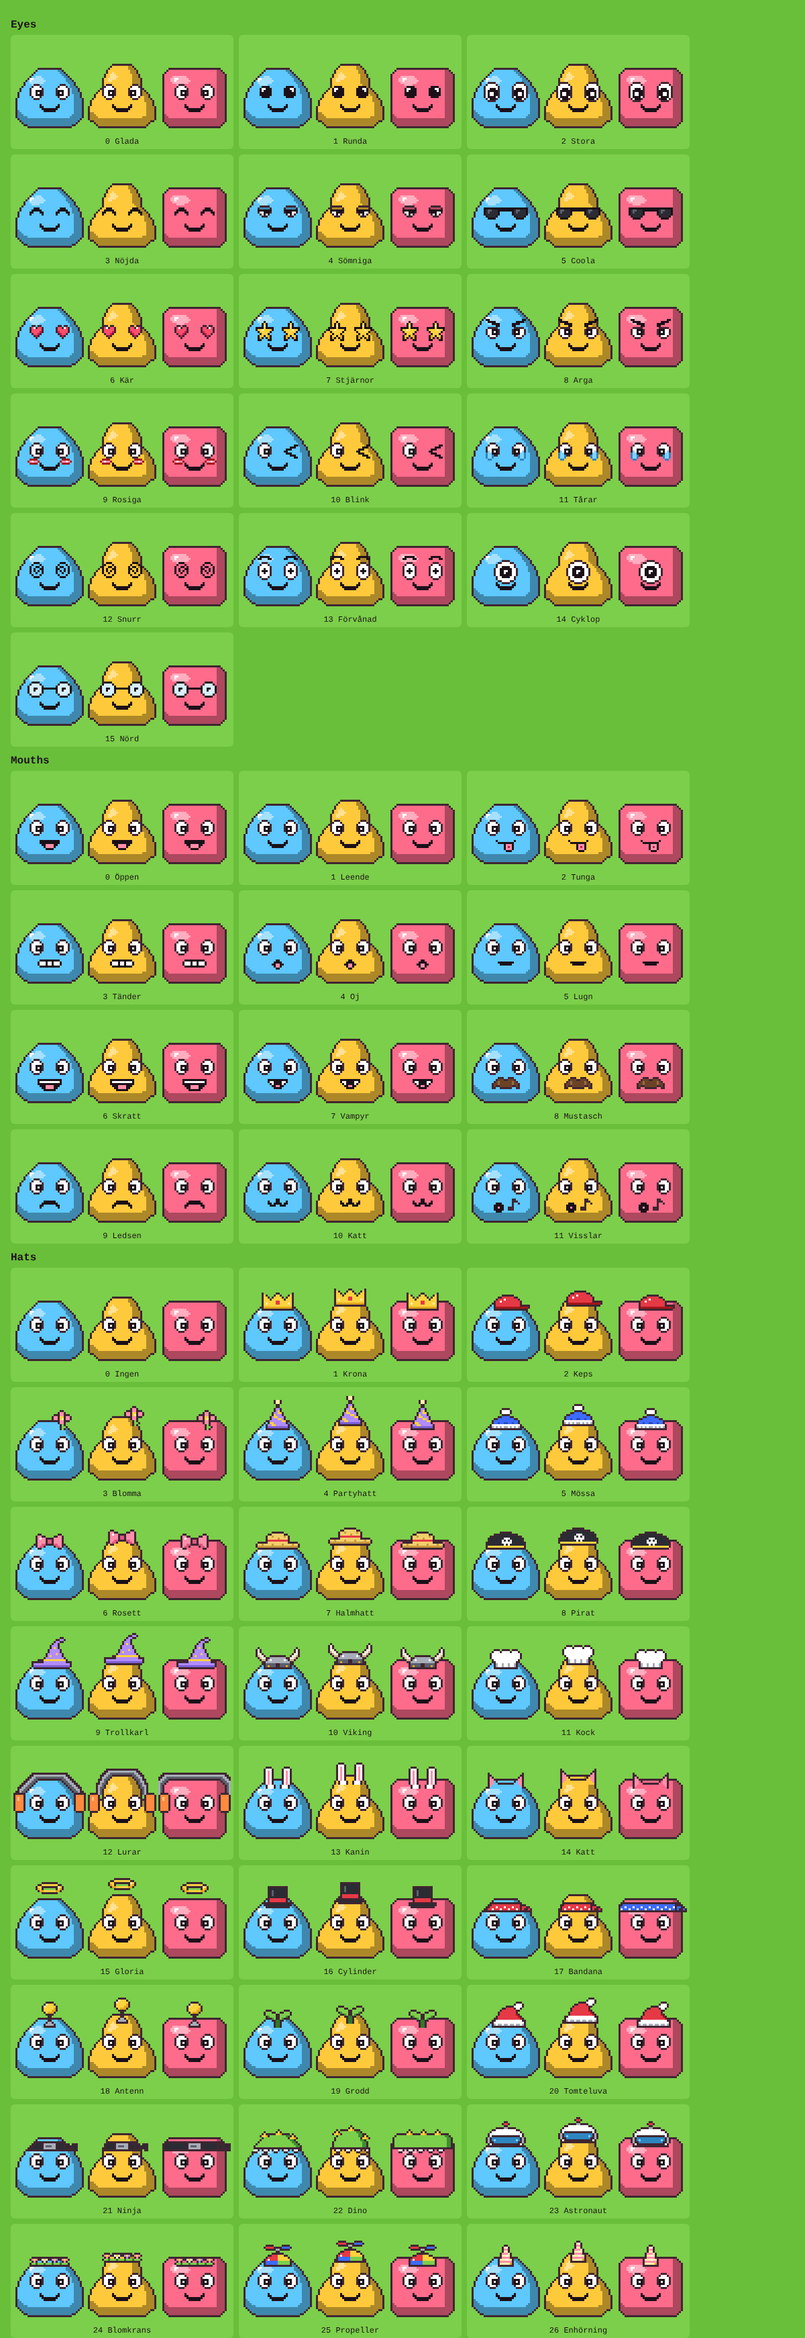
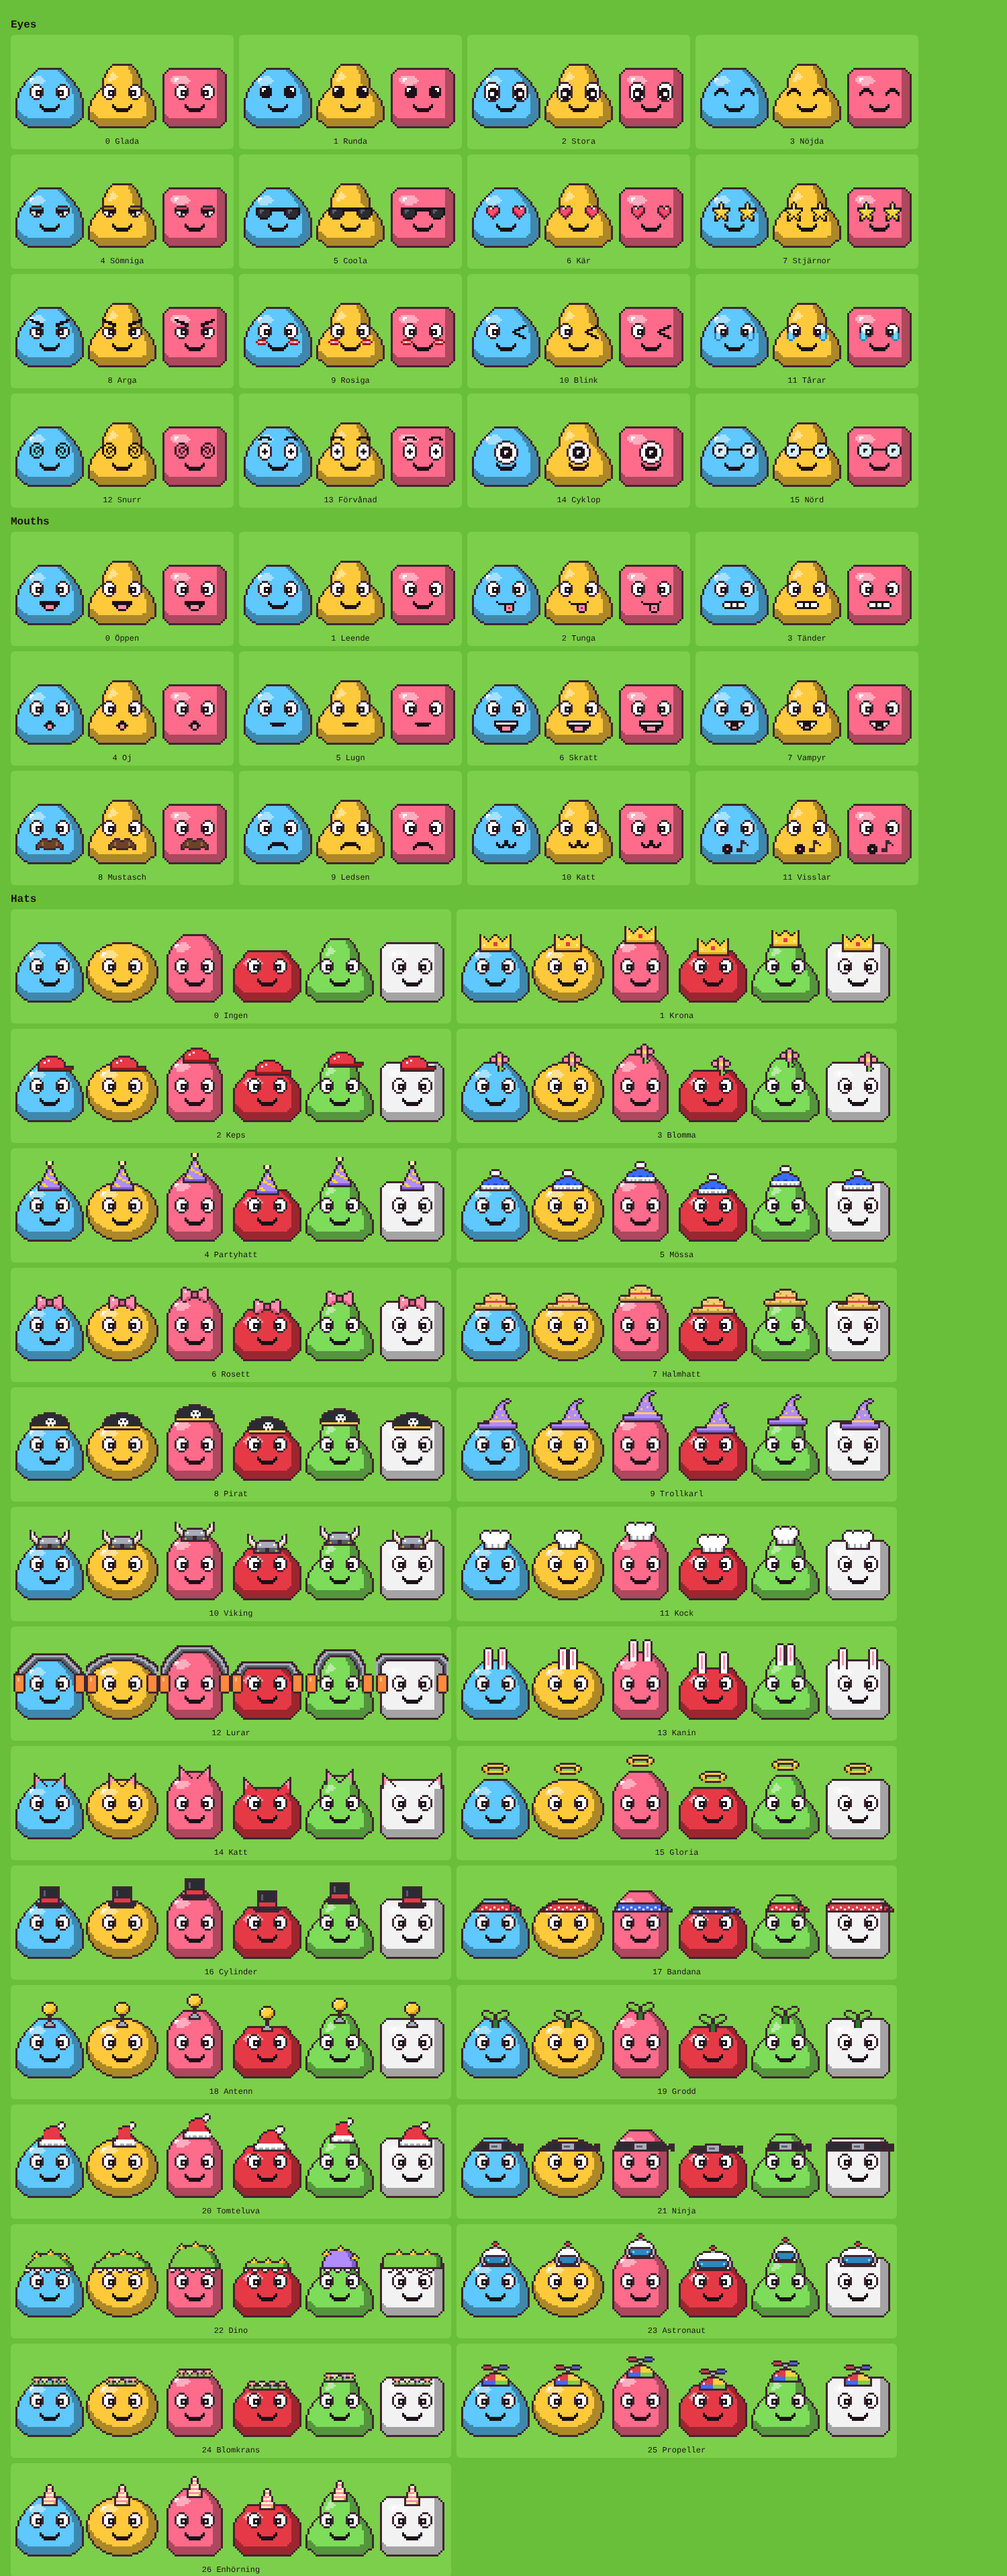
feat(blobz): hats fit every body shape
Per-shape head profile (silhouette extents per row). Wide hats are squeezed
in whole pixel columns (from the longest run of identical columns) until
they stay within 2 px of the head; brims are exempt. Ears and horns are
mirrored pieces placed from the head-top edges (cat, bunny) or against the
helmet (viking); the side flower anchors to the head top. New test fails if
a hat pixel sits more than 2 px outside the head outline on any shape
(intentional brims, cups, knot tails, horns and the dino hood whitelisted).
Parts sheet now shows every hat on all 6 shapes.

Claude-Session: https://claude.ai/code/session_019PjhQv7Xfjv9fRCZgvquZ1

diff --git a/blobz/src/blob.ts b/blobz/src/blob.ts
@@ -97,15 +97,24 @@ const MOUTH_PARTS: MouthPart[] = [
 
 // Hats: centred on x = 18 (+ dx); bottom row on fine row min(top + 2, 11) * S - 1 (+ drop).
 // `float`: hovers above the real head top (halo). `proc`: drawn procedurally to hug the body shape.
-interface HatPart { rows: string[]; dx?: number; float?: boolean; proc?: 'phones' | 'bandana' | 'ninja' | 'dino' }
+// Fitting: hats are squeezed (whole pixel columns) until they stay within ~2 px of the head outline
+// (see fitHat). `brim`: an intentional brim may overhang (straw hat, pirate, wizard, cap).
+// `pair`: a left piece (ear, horn) mirrored to the right, its outer column at fraction `at` of the
+// head-top width (minus 2 px overhang), or, without `at`, against the hat's own sides; `dy` moves it up (-) or down.
+// `anchor`: a narrow side piece centred at this fraction of the head-top width (flower).
+interface HatPart {
+  rows: string[]; dx?: number; float?: boolean; brim?: boolean; anchor?: number;
+  pair?: { rows: string[]; at?: number; dy?: number };
+  proc?: 'phones' | 'bandana' | 'ninja' | 'dino';
+}
 const HAT_PARTS: HatPart[] = [
   { rows: [] }, // Ingen
   { rows: ['U......UU......U', 'UYU...UYYU...UYU', 'UYYU.UYYYYU.UYYU', 'UYYYUYYYYYYUYYYU', 'UYYYYYYeeYYYYYYU',
     'UYoYYYYeeYYYYoYU', 'UYYYYYYYYYYYYYYU', 'UyyyyyyyyyyyyyyU', 'UUUUUUUUUUUUUUUU'] }, // Krona
-  { dx: 2, rows: [ // Keps
+  { dx: 2, brim: true, rows: [ // Keps
     '......UUUUUU........', '....UUeeeeeeUU......', '...UeeeWeeeeeeU.....', '..UeeWeeeeeeeeeU....',
     '..UeeeeeeeeeeeeU....', '..UeeeeeeeeeeeeUUUUU', '..UccccccccccccccccU', '..UUUUUUUUUUUUUUUUU.'] },
-  { dx: 6, rows: [ // Blomma
+  { anchor: 0.7, rows: [ // Blomma
     '....UU....', '...UNNU...', '.UUUNNUUU.', 'UNNUYYUNNU', 'UNNUYoUNNU', '.UUUNNUUU.', '...UNNU...',
     '....ULU...', '....ULLU..', '....ULU...'] },
   { rows: [ // Partyhatt
@@ -117,31 +126,29 @@ const HAT_PARTS: HatPart[] = [
   { rows: [ // Rosett
     '.UU........UU.', 'UNNUU....UUNNU', 'UNWNNUUUUNNNNU', 'UNNNNUnnUNNNNU', 'UNNNNUnnUNNNNU',
     'UNNnnUUUUnnNNU', 'UNnnU....UnnNU', '.UU........UU.'] },
-  { rows: [ // Halmhatt
+  { brim: true, rows: [ // Halmhatt
     '........UUUUUU........', '......UUSSSSSSUU......', '.....USSsSSSSSsSU.....', '.....USSSSSsSSSSU.....',
     '.....UeeeeeeeeeeU.....', '.UUUUUSSSSSSSSSSUUUUU.', 'USSsSSSSsSSSSsSSSSsSSU', 'UssssssssssssssssssssU',
     '.UUUUUUUUUUUUUUUUUUUU.'] },
-  { rows: [ // Pirat
+  { brim: true, rows: [ // Pirat
     '.......UUUUUU.......', '....UUUkkkkkkUUU....', '..UUkkkkkkkkkkkkUU..', '.UkkkkkkkWWWkkkkkkU.',
     '.UkkkkkkWkWkWkkkkkU.', 'UkkkkkkkWWWWWkkkkkkU', 'UkkkkkkkkWkWkkkkkkkU', 'UYYYYYYYYYYYYYYYYYYU',
     '.UUUUUUUUUUUUUUUUUU.'] },
-  { dx: 1, rows: [ // Trollkarl
+  { dx: 1, brim: true, rows: [ // Trollkarl
     '..............UU....', '............UUPPU...', '...........UPPUU....', '..........UPPU......',
     '.........UPPPU......', '.........UPYPU......', '........UPPPPPU.....', '........UPPPPPU.....',
     '.......UPPPPYPPU....', '.......UPYPPPPPU....', '......UPPPPPPPPPU...', '.....UYYYYYYYYYYYU..',
     'UUUUUUPPPPPPPPPPPUUU', 'UPPPPPPPPPPPPPPPPPPU', 'UppppppppppppppppppU', '.UUUUUUUUUUUUUUUUUU.'] },
-  { rows: sym([ // Viking
-    '.U.........', 'UvU........', 'UvU........', 'UvvU.......', 'UxvvU..UUUU', '.UxvvUUaaaa',
-    '..UxxUaWaaa', '...UUaaaaaa', '....UgggggU', '....UgygggU', '....UUUUUUU']) },
+  { rows: sym(['...UUUU', '.UUaaaa', 'UaaWaaa', 'Uaaaaaa', 'UgggggU', 'UgygggU', 'UUUUUUU']), // Viking: helmet + horns
+    pair: { dy: -2, rows: ['U....', 'UvU..', 'UvU..', 'UvvU.', 'UxvvU', '.UxvU', '..UxU', '...UU'] } },
   { rows: sym([ // Kock
     '..UUU.UU', '.UWWWUWW', 'UWWWWWWW', 'UWWWWWWW', 'UWWWWWWW', '.UWWWWWW', '..UWWWWW', '..UaWWaW',
     '..UaWWaW', '..UUUUUU']) },
   { proc: 'phones', rows: [] }, // Lurar
-  { rows: sym([ // Kanin
-    '..UUU...', '.UWWWU..', '.UWNWU..', '.UWNWU..', '.UWNWU..', '.UWNWU..', '.UWNWU..', '.UWNWU..',
-    '.UWNWU..', '..UWWWU.', '..UWWWU.']) },
-  { rows: sym([ // Katt (body colored)
-    'U........', 'UU.......', 'UNU......', 'UNNU.....', 'UNNMU....', 'UNNMMUUUU', 'UNMMMMMMM', 'UMMMMMMMM']) },
+  { rows: [], pair: { at: 0.18, rows: [ // Kanin
+    '.UUU.', 'UWWWU', 'UWNWU', 'UWNWU', 'UWNWU', 'UWNWU', 'UWNWU', 'UWNWU', 'UWNWU', 'UWWWU', 'UWWWU'] } },
+  { rows: [], pair: { at: 0, rows: [ // Katt (body colored ears at the head corners)
+    'U......', 'UU.....', 'UNU....', 'UNNU...', 'UNMMU..', 'UNMMMU.', 'UMMMMMU', 'UMMMMMM'] } },
   { float: true, rows: ['...UUUUUUUU...', '.UUYYYYYYYYUU.', 'UYYUUUUUUUUoYU', 'UyYU......UYyU', '.UyyYYYYYYyyU.', '...UUUUUUUU...'] }, // Gloria
   { rows: ['..UUUUUUUUUU..', '..UkkkkkkkkU..', '..UkgkkkkkkU..', '..UkgkkkkkkU..', '..UkgkkkkkkU..', '..UkkkkkkkkU..',
     '..UeeeeeeeeU..', '..UeeeeeeeeU..', 'UUUUUUUUUUUUUU', 'UkkkkkkkkkkkkU', '.UUUUUUUUUUUU.'] }, // Cylinder
@@ -225,6 +232,58 @@ function distToBody(x: number, y: number, cap: number) {
   }
   return cap + 1;
 }
+/** Silhouette extents [left, right] per fine row for the current shape; rows above the head use the top row. */
+const extCache = new Map<number, ([number, number] | null)[]>();
+function headExtents() {
+  let ext = extCache.get(curShape);
+  if (!ext) {
+    ext = Array.from({ length: GRID_H }, (_, y) => {
+      let l = -1, r = -1;
+      for (let x = 0; x < GRID_W; x++) if (inSilhouette(x, y)) { if (l < 0) l = x; r = x; }
+      return l < 0 ? null : [l, r] as [number, number];
+    });
+    const first = ext.findIndex((e) => e);
+    for (let y = 0; y < first; y++) ext[y] = ext[first];
+    extCache.set(curShape, ext);
+  }
+  return ext;
+}
+/** How far (fine px) a hat may stick out past the head outline at any row. */
+export const HAT_OVERHANG = 2;
+const fitCache = new Map<string, string[]>();
+/** The hat's rows, squeezed in whole pixel columns until they fit the current head (brims exempt). */
+function fitHat(index: number, shape: number, hat: HatPart, bottom: number) {
+  const key = `${index}/${shape}`;
+  const hit = fitCache.get(key);
+  if (hit) return hit;
+  const ext = headExtents();
+  let rows = hat.rows;
+  const fits = (r: string[]) => {
+    const w = r[0].length, x0 = Math.floor(GRID_W / 2 - w / 2) + (hat.dx ?? 0), y0 = bottom - r.length + 1;
+    return r.every((row, ry) => [...row].every((ch, rx) => {
+      if (ch === '.' || y0 + ry < 0) return true;
+      const e = ext[Math.min(GRID_H - 1, y0 + ry)];
+      return !!e && x0 + rx >= e[0] - HAT_OVERHANG && x0 + rx <= e[1] + HAT_OVERHANG;
+    }));
+  };
+  const col = (r: string[], i: number) => r.map((row) => row[i]).join('');
+  while (!hat.brim && hat.anchor === undefined && !hat.float && !fits(rows) && rows[0].length > 6) {
+    // drop a mirrored pair of columns from the longest run of identical columns (keeps the drawing intact)
+    const w = rows[0].length;
+    let best = Math.floor(w / 2) - 1, bestRun = 0;
+    for (let i = 1; i < Math.floor(w / 2); i++) {
+      let run = 1;
+      for (let j = i - 1; j >= 0 && col(rows, j) === col(rows, i); j--) run++;
+      for (let j = i + 1; j < w / 2 && col(rows, j) === col(rows, i); j++) run++;
+      if (run > bestRun || (run === bestRun && Math.abs(i - w / 4) < Math.abs(best - w / 4))) { best = i; bestRun = run; }
+    }
+    const drop = new Set([best, w - 1 - best]);
+    rows = rows.map((row) => [...row].filter((_, i) => !drop.has(i)).join(''));
+  }
+  fitCache.set(key, rows);
+  return rows;
+}
+
 /** Headphones: a band hugging the head (any shape) and two cups at eye height on the sides. */
 function drawPhones(set: Setter) {
   const cupY = 22, cupH = 10;
@@ -336,10 +395,24 @@ export function blobGrid(look: BlobLook): (string | null)[][] {
   else if (hat.proc === 'bandana') drawBandana(set, look.color);
   else if (hat.proc === 'ninja') drawBandana(set, look.color, true);
   else if (hat.proc === 'dino') drawDino(set, look.color);
-  else if (hat.rows.length) {
+  else {
     // the hat's bottom row sits just above the eyes (row 23) on every shape; tall hats clip at the top
     const bottom = hat.float ? headTop() - 3 : Math.min(top + 2, 11) * S - 1;
-    paint(hat.rows, GRID_W / 2 - hat.rows[0].length / 2 + (hat.dx ?? 0), bottom - hat.rows.length + 1);
+    const ext = headExtents();
+        let hx0 = 0, hw = 0;
+    if (hat.rows.length) {
+      const rows = fitHat(look.hat, look.shape, hat, bottom);
+      hw = rows[0].length;
+      hx0 = hat.anchor !== undefined ? Math.round(ext[0]![0] + (ext[0]![1] - ext[0]![0] + 1) * hat.anchor - hw / 2) : Math.floor(GRID_W / 2 - hw / 2) + (hat.dx ?? 0);
+      paint(rows, hx0, bottom - rows.length + 1);
+    }
+    if (hat.pair) {
+      const pw = hat.pair.rows[0].length, py = bottom + (hat.pair.dy ?? 0) - hat.pair.rows.length + 1;
+      const [tl, tr] = ext[0]!; // head-top row: ears/horns rise above it, so they must stay within it
+      const px = hat.pair.at !== undefined ? tl + Math.round((tr - tl + 1) * hat.pair.at) - 2 : hx0 - pw + 2;
+      paint(hat.pair.rows, px, py);
+      paint(hat.pair.rows, GRID_W - px - pw, py, true);
+    }
   }
   return g;
 }

diff --git a/blobz/src/blob.test.ts b/blobz/src/blob.test.ts
@@ -1,5 +1,5 @@
 import { describe, expect, it } from 'vitest';
-import { blobGrid, blobSvg, clampLook, COLORS, EYES, GRID_H, GRID_W, HATS, MOUTHS, PART_TABLES, SHAPES } from './blob';
+import { blobGrid, blobSvg, clampLook, COLORS, EYES, GRID_H, GRID_W, HAT_OVERHANG, HATS, MOUTHS, PART_TABLES, SHAPES } from './blob';
 
 const diff = (a: (string | null)[][], b: (string | null)[][]) => {
   const out: [number, number][] = [];
@@ -31,7 +31,8 @@ describe('blob', () => {
 
   it('part patterns are rectangular and use only palette letters', () => {
     const ok = new Set([...Object.keys(PART_TABLES.palette), '.', 'M', 'm']);
-    const all = [...PART_TABLES.eyes.flatMap((e) => [e.rows, e.right ?? []]), ...PART_TABLES.mouths.map((m) => m.rows), ...PART_TABLES.hats.map((h) => h.rows)];
+    const all = [...PART_TABLES.eyes.flatMap((e) => [e.rows, e.right ?? []]), ...PART_TABLES.mouths.map((m) => m.rows),
+      ...PART_TABLES.hats.flatMap((h) => [h.rows, h.pair?.rows ?? []])].filter((rows) => rows.length);
     for (const rows of all) {
       for (const r of rows) {
         expect(r.length).toBe(rows[0].length);
@@ -77,6 +78,28 @@ describe('blob', () => {
     for (let s = 0; s < SHAPES.length; s++) {
       const bare = blobGrid({ color: COLORS[0], shape: s, eyes: 0, mouth: 0, hat: 0 });
       for (let h = 1; h < HATS.length; h++) expect(diff(bare, blobGrid({ color: COLORS[0], shape: s, eyes: 0, mouth: 0, hat: h })).length).toBeGreaterThan(20);
+    }
+  });
+
+  // intentional overhangs: brims, headphone cups, bandana knot tails, viking horns; Dino is the head
+  // silhouette raised 3 px (follows the head by construction, above the head top it is wider than the top row)
+  const OVERHANG_OK = new Set(['Keps', 'Halmhatt', 'Pirat', 'Trollkarl', 'Lurar', 'Bandana', 'Ninja', 'Viking', 'Dino']);
+  it('hats fit the head on every shape (no pixel more than HAT_OVERHANG px outside the head outline)', () => {
+    for (let s = 0; s < SHAPES.length; s++) {
+      const bare = blobGrid({ color: COLORS[0], shape: s, eyes: 0, mouth: 0, hat: 0 });
+      const ext = bare.map((row) => {
+        const xs = row.map((c, x) => (c ? x : -1)).filter((x) => x >= 0);
+        return xs.length ? [xs[0], xs[xs.length - 1]] : null;
+      });
+      const first = ext.findIndex((e) => e);
+      for (let h = 1; h < HATS.length; h++) {
+        if (OVERHANG_OK.has(HATS[h])) continue;
+        const out = diff(bare, blobGrid({ color: COLORS[0], shape: s, eyes: 0, mouth: 0, hat: h })).filter(([x, y]) => {
+          const e = ext[Math.max(y, first)]!;
+          return x < e[0] - HAT_OVERHANG || x > e[1] + HAT_OVERHANG;
+        });
+        expect(out, `${HATS[h]} on ${SHAPES[s]}`).toEqual([]);
+      }
     }
   });
 
